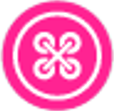
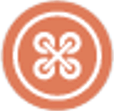
product list

diff --git a/src/screens/products/productList.js b/src/screens/products/productList.js
@@ -34,84 +34,87 @@ class ProductList extends React.Component{
 				<div className="container">
 					<ul className="pro-grid">
 						<li>
-							<div className="pro-img"><img src="assets/images/list-pro.jpg" alt=""/></div>
+							<div className="pro-img">
+								<img src='../../assets/images/list-pro.jpg' alt=""/>
+							</div>
 							<div className="pro-name-outer">
 								<div className="name">Casual</div>
 								<div className="price">₹ 600</div>
 							</div>
 						</li>
 						<li>
-							<div className="pro-img"><img src="assets/images/list-pro.jpg" alt=""/></div>
+							<div className="pro-img"><img src='../../assets/images/list-pro.jpg' alt=""/></div>
 							<div className="pro-name-outer">
 								<div className="name">Casual</div>
 								<div className="price">₹ 600</div>
 							</div>
 						</li>
 						<li>
-							<div className="pro-img"><img src="assets/images/list-pro.jpg" alt=""/></div>
+							<div className="pro-img"><img src='../../assets/images/list-pro.jpg' alt=""/></div>
 							<div className="pro-name-outer">
 								<div className="name">Casual</div>
 								<div className="price">₹ 600</div>
 							</div>
 						</li>
 						<li>
-							<div className="pro-img"><img src="assets/images/list-pro.jpg" alt=""/></div>
+							<div className="pro-img"><img src='../../assets/images/list-pro.jpg' alt=""/></div>
 							<div className="pro-name-outer">
 								<div className="name">Casual</div>
 								<div className="price">₹ 600</div>
 							</div>
 						</li>
 						<li>
-							<div className="pro-img"><img src="assets/images/list-pro.jpg" alt=""/></div>
+							<div className="pro-img">
+								<img src='../../assets/images/list-pro.jpg' alt=""/></div>
 							<div className="pro-name-outer">
 								<div className="name">Casual</div>
 								<div className="price">₹ 600</div>
 							</div>
 						</li>
 						<li>
-							<div className="pro-img"><img src="assets/images/list-pro.jpg" alt=""/></div>
+						<div className="pro-img"><img src='../../assets/images/list-pro.jpg' alt=""/></div>
 							<div className="pro-name-outer">
 								<div className="name">Casual</div>
 								<div className="price">₹ 600</div>
 							</div>
 						</li>
 						<li>
-							<div className="pro-img"><img src="assets/images/list-pro.jpg" alt=""/></div>
+							<div className="pro-img"><img src='../../assets/images/list-pro.jpg' alt=""/></div>
 							<div className="pro-name-outer">
 								<div className="name">Casual</div>
 								<div className="price">₹ 600</div>
 							</div>
 						</li>
 						<li>
-							<div className="pro-img"><img src="assets/images/list-pro.jpg" alt=""/></div>
+							<div className="pro-img"><img src='../../assets/images/list-pro.jpg' alt=""/></div>
 							<div className="pro-name-outer">
 								<div className="name">Casual</div>
 								<div className="price">₹ 600</div>
 							</div>
 						</li>
 						<li>
-							<div className="pro-img"><img src="assets/images/list-pro.jpg" alt=""/></div>
+							<div className="pro-img"><img src='../../assets/images/list-pro.jpg' alt=""/></div>
 							<div className="pro-name-outer">
 								<div className="name">Casual</div>
 								<div className="price">₹ 600</div>
 							</div>
 						</li>
 						<li>
-							<div className="pro-img"><img src="assets/images/list-pro.jpg" alt=""/></div>
+							<div className="pro-img"><img src='../../assets/images/list-pro.jpg' alt=""/></div>
 							<div className="pro-name-outer">
 								<div className="name">Casual</div>
 								<div className="price">₹ 600</div>
 							</div>
 						</li>
 						<li>
-							<div className="pro-img"><img src="assets/images/list-pro.jpg" alt=""/></div>
+							<div className="pro-img"><img src='../../assets/images/list-pro.jpg' alt=""/></div>
 							<div className="pro-name-outer">
 								<div className="name">Casual</div>
 								<div className="price">₹ 600</div>
 							</div>
 						</li>
 						<li>
-							<div className="pro-img"><img src="assets/images/list-pro.jpg" alt=""/></div>
+							<div className="pro-img"><img src='../../assets/images/list-pro.jpg' alt=""/></div>
 							<div className="pro-name-outer">
 								<div className="name">Casual</div>
 								<div className="price">₹ 600</div>

diff --git a/public/assets/css/styles.css b/public/assets/css/styles.css
@@ -51,7 +51,7 @@ header .nav {
   color: #ff2391;
 }
 .nav ul li.active a {
-  color: #ff2391;
+  color: #ee7767;
 }
 header .logo img {
   width: 295px;
@@ -98,7 +98,7 @@ header .logo img {
   margin-top: 20px;
 }
 .main-catagory-outer > div.main-cata a:hover img {
-  border-color: #ff9acf;
+  border-color: #ee7767;
 }
 .main-catagory-outer > div.main-cata a:hover .name {
   color: #ff2391;
@@ -125,7 +125,7 @@ header .logo img {
   line-height: 24px;
 }
 .home-blog-outer .btn-outer a {
-  background: #ff5aae;
+  background: #ee7767;
   display: inline-block;
   color: #fff;
   text-decoration: none;
@@ -168,7 +168,7 @@ header .logo img {
   padding: 15px 20px;
 }
 .review-cont-slider {
-  background: #ff5aae;
+  background: #ee7767;
   padding: 50px 0;
   margin-top: 108px;
   color: #fff;
@@ -241,7 +241,7 @@ footer {
   margin: 0 5%;
 }
 .footer-inr .title {
-  border-bottom: 1px solid #ff5aae;
+  border-bottom: 1px solid #ee7767;
   padding-bottom: 15px;
   margin-bottom: 15px;
 }
@@ -256,6 +256,9 @@ footer {
 .footer-inr > div ul li a {
   color: #fff;
   text-decoration: none;
+}
+.footer-inr > div ul li a:hover {
+  color: #ee7767;
 }
 .copyright {
   text-align: center;
@@ -410,7 +413,20 @@ header {
 .pro-grid li .name {
   margin: 15px 0;
 }
-
+.cms-con {
+  min-height: 800px;
+  width: 75%;
+  margin: 50px auto;
+  text-align: justify;
+  line-height: 27px;
+  padding: 40px;
+  box-shadow: 0 0 20px #00000078;
+}
+.cms-con .title {
+  text-align: center;
+  margin-bottom: 20px;
+  font-size: 25px;
+}
 @media only screen and (max-width: 1199px) and (min-width: 992px) {
   header .logo img {
     width: 200px;
@@ -492,7 +508,7 @@ header {
   .nav ul.nav-ul {
     display: none;
   }
-  .nav .nav-active {
+  .nav ul.nav-ul.nav-active {
     display: block;
     position: absolute;
     left: 0;

diff --git a/src/screens/home/home.js b/src/screens/home/home.js
@@ -31,10 +31,10 @@ class Home extends React.Component{
             </Carousel>
             </div>
             <div className="container">
-                <div className="row">
+                <div className="row"> 
                     <div className="main-catagory-outer">
                         <div className="main-cata">
-                             <div onClick={()=>this.redirectToProductList('Mens',1)}>
+        <div onClick={()=>this.redirectToProductList('Mens',1)}>
                                 <div className="img"><img src="assets/images/main-cata-1.jpg" alt=""/>
                                 </div>
                                 <div className="name">Men</div>

diff --git a/src/components/header/header.js b/src/components/header/header.js
@@ -1,5 +1,10 @@
 import React from 'react';
 // import connect from 'react-redux'
+import {
+	
+	Link,
+	
+  } from "react-router-dom";
 
 class Header extends React.Component{
     constructor(props){
@@ -28,7 +33,7 @@ class Header extends React.Component{
 					</div>
 					<ul className={this.props.isMenu? 'nav-active': 'nav-ul'}>
 						<li className={selectedTab==='home'?"active":null}>
-							<a  href="#">Home</a>
+						<Link to="/">Home</Link>
 						</li>
 						<li><a  href="#">About US</a></li>
 						<li><a  href="#">How it Works</a></li>

diff --git a/src/App.js b/src/App.js
@@ -36,15 +36,11 @@ const GeneralRoute = ({ component: Component, ...rest }) => {
   return (
     <Route
       {...rest}
-      render={props =>{
-        console.log("prpos1", props)
-        return(
+      render={props =>
         <Layout>
          <Component {...props} />
         </Layout>
-        )
-    }
-  }
+        }
     />
   )
 }
